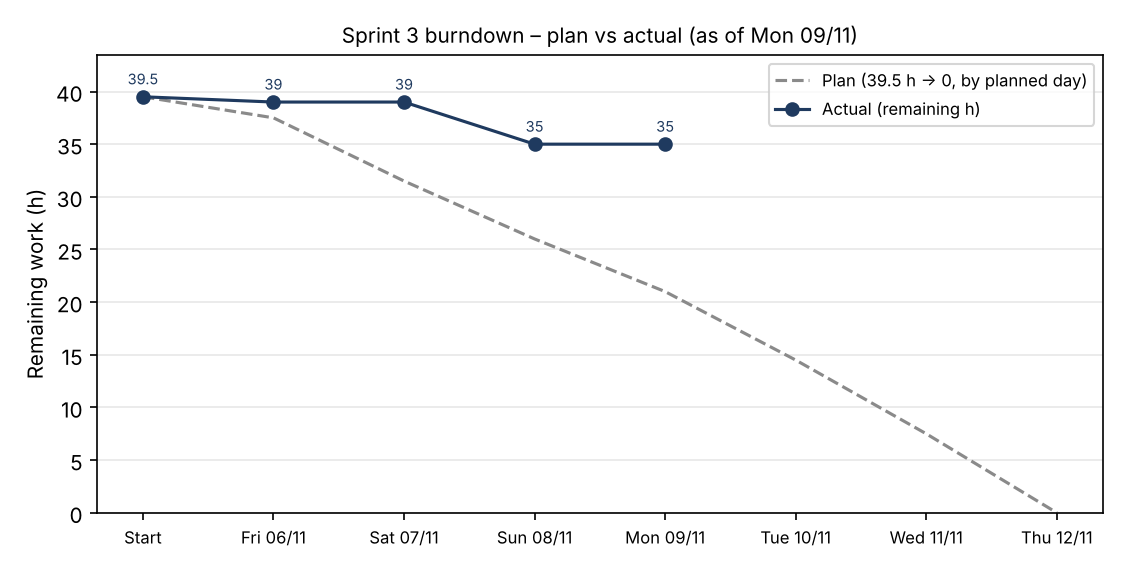
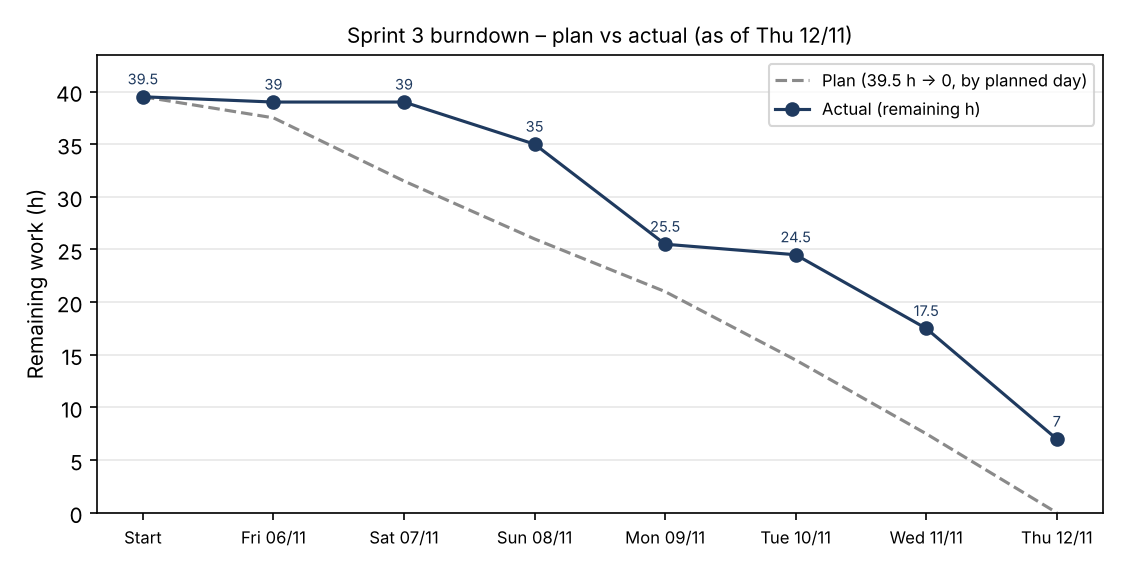
fix(tools): S3 export works with CR-07 and shows Daily "Not held"
- fill_changes: hours from "≈ N h" or 0 when the impact says hours are
  unchanged (CR-07 crashed the export); SP from "PSP a → b"; a pending
  CR keeps the current baseline (baseline-v1.1)
- state(): "Not held" Dailies (S3-D2, S3-D3) are no longer "In Progress"
- burndown-S3.png regenerated (D7 7 h left)
- export S1, S2, S3 run without error; S1/S2 deliverables left as submitted

Refs: P30

diff --git a/tools/export_templates.py b/tools/export_templates.py
@@ -167,6 +167,8 @@ def state(status):
         return "Done"
     if s.startswith("to do") or not s:
         return "To Do"
+    if s.startswith("not held"):  # a Daily that did not take place (S3-D2, S3-D3) – never "In Progress"
+        return "Not held"
     return "In Progress"
 
 
@@ -630,13 +632,29 @@ def fill_changes(wb, sprint):
             continue
         decided = clean(d["decision"])
         approved = decided.lower().startswith("approve")
-        vals = [clean(d["cr id"]), clean(d["date received"]), clean(d["requester"]),
+        cr = clean(d["cr id"])
+        impact = clean(d["impact summary (plan)"])
+        # Hours: "≈ N h" in the impact summary; a CR that keeps hours unchanged (CR-07) counts 0 h.
+        m_h = re.search(r"≈\s*(\d+)\s*h", impact)
+        hours = num(m_h.group(1)) if m_h else (0 if "unchanged" in impact.lower() else None)
+        # SP: CR-06 adds US-24 + US-25 (7 SP); other CRs give "PSP a → b" in the impact summary.
+        m_sp = re.search(r"PSP\s*(\d+)\s*→\s*(\d+)", impact)
+        if cr == "CR-06":
+            sp = 7 if approved else "TBD (Planning Poker before CCB)"
+        elif m_sp:
+            sp = f"+{int(m_sp.group(2)) - int(m_sp.group(1))}" + ("" if approved else " (pending CCB)")
+        else:
+            sp = "TBD"
+        if approved:
+            base = "baseline-v1.1" if cr == "CR-06" else "next baseline"
+        else:
+            base = "baseline-v1.0" if cr == "CR-06" else "baseline-v1.1 (current)"
+        vals = [cr, clean(d["date received"]), clean(d["requester"]),
                 f"{clean(d['title'])}. {clean(d['description'])}",
-                7 if approved else "TBD (Planning Poker before CCB)",
-                num(re.search(r"≈\s*(\d+)\s*h", clean(d["impact summary (plan)"])).group(1)), None,
+                sp, hours, None,
                 "Approved" if approved else ("Pending" if not decided or decided.upper() == "TBD" else decided),
                 clean(d["ccb date"]) if approved else f"{clean(d['ccb date'])} (planned)",
-                "baseline-v1.1" if approved else "baseline-v1.0", clean(d["status"])]
+                base, clean(d["status"])]
         for c, v in enumerate(vals, 1):
             if c != 7:
                 put(ws, 5 + k, c, nice(v) if isinstance(v, float) else v)
